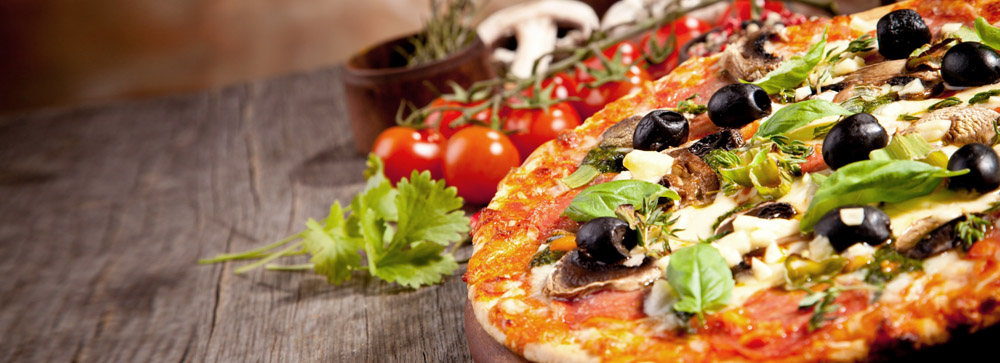
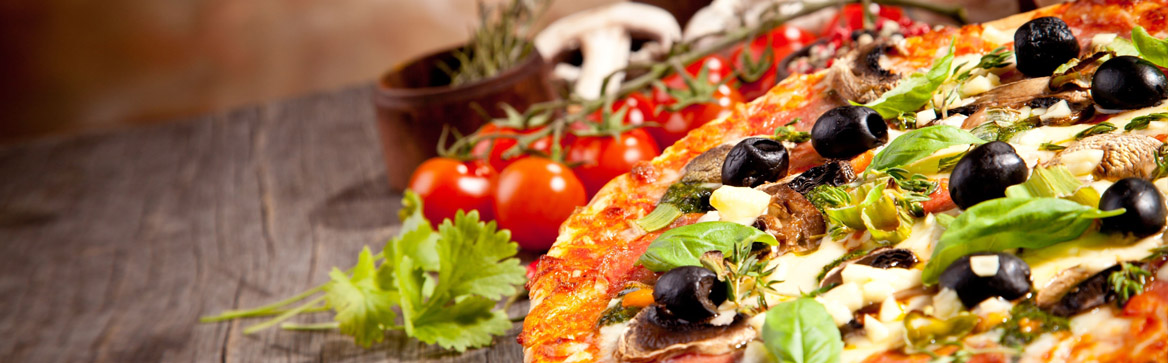
Make jumbotorn component

diff --git a/front-end/app/jumbotron.component.js b/front-end/app/jumbotron.component.js
@@ -1,0 +1,33 @@
+"use strict";
+var __decorate = (this && this.__decorate) || function (decorators, target, key, desc) {
+    var c = arguments.length, r = c < 3 ? target : desc === null ? desc = Object.getOwnPropertyDescriptor(target, key) : desc, d;
+    if (typeof Reflect === "object" && typeof Reflect.decorate === "function") r = Reflect.decorate(decorators, target, key, desc);
+    else for (var i = decorators.length - 1; i >= 0; i--) if (d = decorators[i]) r = (c < 3 ? d(r) : c > 3 ? d(target, key, r) : d(target, key)) || r;
+    return c > 3 && r && Object.defineProperty(target, key, r), r;
+};
+var __metadata = (this && this.__metadata) || function (k, v) {
+    if (typeof Reflect === "object" && typeof Reflect.metadata === "function") return Reflect.metadata(k, v);
+};
+var core_1 = require('@angular/core');
+var JumbotronComponent = (function () {
+    function JumbotronComponent() {
+    }
+    __decorate([
+        core_1.Input(), 
+        __metadata('design:type', String)
+    ], JumbotronComponent.prototype, "jumbotronImage", void 0);
+    JumbotronComponent = __decorate([
+        core_1.Component({
+            moduleId: module.id,
+            selector: 'my-jumbotron',
+            templateUrl: "./jumbotron.component.html",
+            styles: [
+                "\n        .my-jumbotron {\n          width: 100%;\n          margin-bottom: 30px;\n          padding: 0;\n        }\n        .round{\n            border-radius: 4px;\n        }\n        "
+            ]
+        }), 
+        __metadata('design:paramtypes', [])
+    ], JumbotronComponent);
+    return JumbotronComponent;
+}());
+exports.JumbotronComponent = JumbotronComponent;
+//# sourceMappingURL=jumbotron.component.js.map

diff --git a/front-end/app/app.module.js b/front-end/app/app.module.js
@@ -23,6 +23,7 @@ var terms_and_conditions_component_1 = require('./terms-and-conditions.component
 var contact_us_component_1 = require('./contact-us.component');
 var basket_component_1 = require('./basket.component');
 var footer_component_1 = require('./footer.component');
+var jumbotron_component_1 = require('./jumbotron.component');
 var AppModule = (function () {
     function AppModule() {
     }
@@ -48,7 +49,8 @@ var AppModule = (function () {
                 basket_component_1.BasketComponent,
                 footer_component_1.FooterComponent,
                 terms_and_conditions_component_1.TermsAndConditionsComponent,
-                contact_us_component_1.ContactUsComponent
+                contact_us_component_1.ContactUsComponent,
+                jumbotron_component_1.JumbotronComponent
             ],
             bootstrap: [app_component_1.AppComponent]
         }), 

diff --git a/front-end/app/app.module.ts b/front-end/app/app.module.ts
@@ -14,6 +14,7 @@ import { TermsAndConditionsComponent } from './terms-and-conditions.component';
 import { ContactUsComponent } from './contact-us.component';
 import { BasketComponent } from './basket.component';
 import { FooterComponent } from './footer.component';
+import { JumbotronComponent } from './jumbotron.component';
 
 @NgModule({
   imports: [BrowserModule, HttpModule, FormsModule, RouterModule.forRoot([
@@ -37,7 +38,8 @@ import { FooterComponent } from './footer.component';
     BasketComponent,
     FooterComponent,
     TermsAndConditionsComponent,
-    ContactUsComponent
+    ContactUsComponent,
+    JumbotronComponent
   ],
   bootstrap: [AppComponent]
 })

diff --git a/front-end/app/jumbotron.component.ts b/front-end/app/jumbotron.component.ts
@@ -1,0 +1,27 @@
+import { Component, Input } from '@angular/core';
+
+
+@Component({
+    moduleId: module.id,
+    selector: 'my-jumbotron',
+    templateUrl: `./jumbotron.component.html`,
+    styles: [
+        `
+        .my-jumbotron {
+          width: 100%;
+          margin-bottom: 30px;
+          padding: 0;
+        }
+        .round{
+            border-radius: 4px;
+        }
+        `
+    ]
+})
+export class JumbotronComponent {
+    @Input() jumbotronImage: string;
+    constructor() {
+
+    }
+
+}

diff --git a/front-end/app/drinks.component.js b/front-end/app/drinks.component.js
@@ -16,6 +16,7 @@ var DrinksComponent = (function () {
     function DrinksComponent(itemService, basket) {
         this.itemService = itemService;
         this.basket = basket;
+        this.jumbotronImage = "/images/drinks-jumbotron.jpg";
     }
     DrinksComponent.prototype.ngOnInit = function () {
         var _this = this;

diff --git a/front-end/app/sides.component.js b/front-end/app/sides.component.js
@@ -16,6 +16,7 @@ var SidesComponent = (function () {
     function SidesComponent(ItemService, basket) {
         this.ItemService = ItemService;
         this.basket = basket;
+        this.jumbotronImage = "/images/side-jumbotron.jpg";
     }
     SidesComponent.prototype.ngOnInit = function () {
         var _this = this;

diff --git a/front-end/app/pizza.component.js b/front-end/app/pizza.component.js
@@ -16,6 +16,7 @@ var PizzaComponent = (function () {
     function PizzaComponent(itemService, basket) {
         this.itemService = itemService;
         this.basket = basket;
+        this.jumbotronImage = "/images/hero.jpg";
     }
     PizzaComponent.prototype.ngOnInit = function () {
         var _this = this;

diff --git a/front-end/app/sides.component.ts b/front-end/app/sides.component.ts
@@ -10,6 +10,7 @@ import { saveBasket } from './utils';
 export class SidesComponent implements OnInit {
     sides: Side[];
     totalQuantity: number;
+    jumbotronImage: string = "/images/side-jumbotron.jpg";
     constructor(private ItemService: ItemService, private basket: BasketService) {
        
     }

diff --git a/front-end/app/drinks.component.ts b/front-end/app/drinks.component.ts
@@ -11,6 +11,7 @@ import { saveBasket } from './utils';
 export class DrinksComponent implements OnInit {
     drinks: Drink[];
     totalQuantity: number;
+     jumbotronImage: string = "/images/drinks-jumbotron.jpg";
     constructor(private itemService: ItemService, private basket: BasketService) {
 
     }

diff --git a/front-end/app/pizza.component.ts b/front-end/app/pizza.component.ts
@@ -27,6 +27,7 @@ export class PizzaComponent implements OnInit {
 
     pizzas: PizzaItem[];
     totalQuantity: number;
+    jumbotronImage: string = "/images/hero.jpg";
     constructor(private itemService: ItemService, private basket: BasketService) {
 
     }

diff --git a/front-end/app/drinks.component.html b/front-end/app/drinks.component.html
@@ -1,4 +1,6 @@
 <my-header [totalQuantity]="totalQuantity"> </my-header>
+<my-jumbotron [jumbotronImage]="jumbotronImage"></my-jumbotron>
+
 <div class="container">
     <div class="row">
         <div class="col-sm-12 col-md-4" *ngFor='let drink of drinks'>

diff --git a/front-end/app/pizza.component.html b/front-end/app/pizza.component.html
@@ -1,4 +1,5 @@
 <my-header [totalQuantity]="totalQuantity"></my-header>
+<my-jumbotron [jumbotronImage]="jumbotronImage"></my-jumbotron>
 <div class="container">
     <div class="row">
         <div class="col-sm-12 col-md-4" *ngFor='let pizza of pizzas'>
